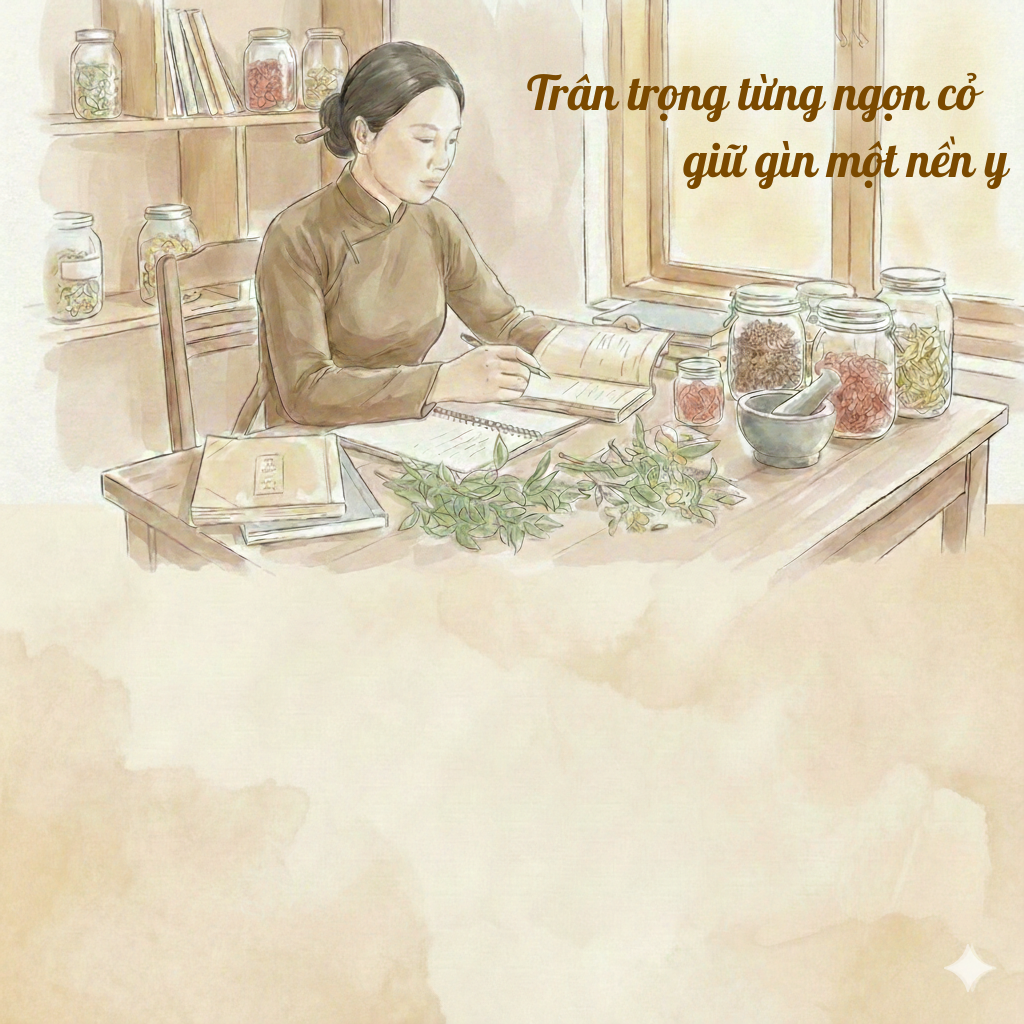
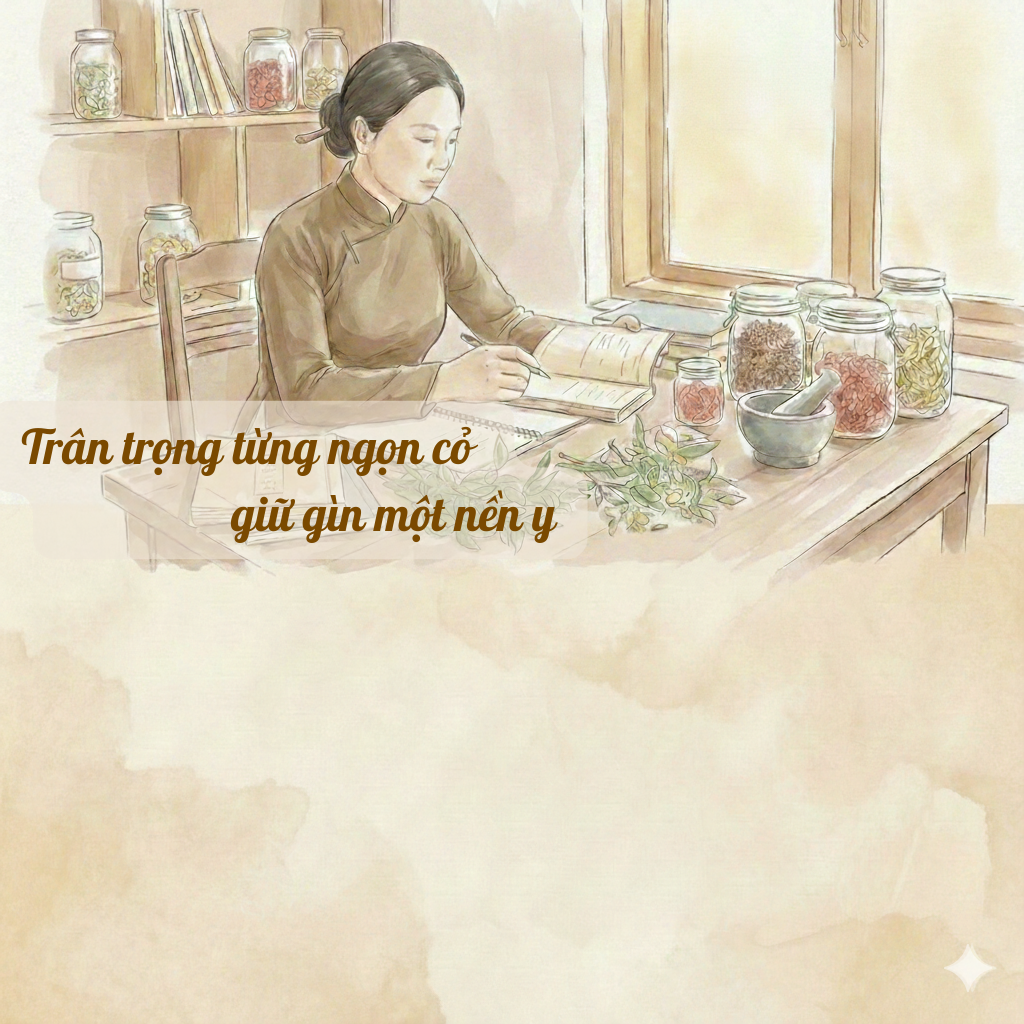
update

Changed region(s): [[0.0312, 0.375, 0.5938, 0.5625], [0.5, 0.0625, 1.0, 0.1875]]

diff --git a/app/page.tsx b/app/page.tsx
@@ -80,7 +80,7 @@ export default function Home() {
             </div>
 
             <div className="space-y-4 text-dark pb-12">
-              <h2 className="text-3xl font-playfair font-bold text-center mb-8">Xin Chào!</h2>
+              <h2 className="text-3xl font-playfair font-bold text-left mb-8">Xin Chào!</h2>
               
               <div className="space-y-3 font-semibold text-[15px] leading-relaxed text-black">
                 <p>
@@ -106,54 +106,6 @@ export default function Home() {
           </div>
         </div>
       </section>
-
-      {/* Blog/Services Section - Modern Zen Grid */}
-      {/* <section id="blog" className="py-24 px-6 bg-cream/10">
-        <div className="max-w-7xl mx-auto space-y-16">
-          <div className="text-center space-y-4">
-            <h2 className="text-3xl md:text-4xl font-playfair font-bold text-primary tracking-widest uppercase">
-              BÀI VIẾT & DƯỠNG SINH
-            </h2>
-            <div className="w-20 h-[2px] bg-accent mx-auto"></div>
-          </div>
-
-          <div className="grid grid-cols-1 md:grid-cols-3 gap-10">
-            {blogPosts.map((post) => (
-              <div 
-                key={post.id} 
-                className="bg-white rounded-2xl shadow-sm hover:shadow-2xl transition-all duration-500 overflow-hidden group border border-primary/5 flex flex-col h-full"
-              >
-                <div className="p-10 space-y-6 flex flex-col h-full">
-                  <div className="space-y-4 flex-grow">
-                    <span className="text-[10px] font-montserrat font-bold tracking-[0.2em] text-accent uppercase bg-accent/5 px-3 py-1 rounded-full">
-                      {post.category}
-                    </span>
-                    <h3 className="text-xl md:text-2xl font-playfair font-bold text-primary group-hover:text-accent transition-colors leading-tight">
-                      {post.title}
-                    </h3>
-                    <p className="text-primary/60 text-sm font-montserrat leading-relaxed line-clamp-3">
-                      {post.excerpt}
-                    </p>
-                  </div>
-                  
-                  <div className="pt-8 border-t border-primary/5 flex justify-between items-center mt-auto">
-                    <span className="text-[11px] font-montserrat text-primary/40 uppercase tracking-wider">
-                      {post.date}
-                    </span>
-                    <Link 
-                      href={`/blog/${post.slug}`} 
-                      className="text-[12px] font-montserrat font-bold text-primary hover:text-accent transition-colors flex items-center gap-2 group/link"
-                    >
-                      XEM THÊM 
-                      <span className="transition-transform group-hover/link:translate-x-1">→</span>
-                    </Link>
-                  </div>
-                </div>
-              </div>
-            ))}
-          </div>
-        </div>
-      </section> */}
 
       {/* Newsletter Section - Refactored Modern Zen Layout */}
       <section id="newsletter" className="bg-background py-32 px-6 overflow-hidden">

diff --git a/components/Header.tsx b/components/Header.tsx
@@ -8,7 +8,7 @@ export function Header() {
 
   const navLinks = [
     { href: "/blog", label: "Blog" },
-    { href: "/services", label: "Về chúng tôi" },
+    { href: "#footer", label: "Về chúng tôi" },
     { href: "/shop", label: "Khóa học" },
   ]
 
@@ -17,13 +17,11 @@ export function Header() {
       <div className="max-w-7xl mx-auto px-6 py-4 flex justify-between items-center">
         {/* Logo - Top Left Align */}
         <Link href="/" className="flex items-center gap-4 group">
-          <div className="relative w-12 h-12 md:w-16 md:h-16 overflow-hidden rounded-sm shadow-sm group-hover:shadow-md transition-shadow">
-            <img 
-              src="/logo.png" 
-              alt="Hải Lĩnh Y Quán Logo" 
-              className="w-full h-full object-cover"
-            />
-          </div>
+          <img 
+            src="/logo.png" 
+            alt="Hải Lĩnh Y Quán Logo" 
+            className="w-[8%] h-[8%] object-cover"
+          />
           <div className="flex flex-col">
             <span className="text-xl md:text-2xl font-playfair font-bold tracking-[0.1em] text-primary uppercase leading-tight">
               Hải Lĩnh

diff --git a/components/Footer.tsx b/components/Footer.tsx
@@ -17,10 +17,10 @@ export function Footer() {
                 />
               </div>
               <div>
-                <span className="block text-2xl md:text-3xl font-playfair font-bold tracking-[0.2em] text-accent uppercase">
+                <span className="block text-2xl md:text-3xl font-playfair font-bold tracking-[0.2em] text-primary-foreground uppercase">
                   Hải Lĩnh
                 </span>
-                <span className="block text-sm md:text-base font-montserrat tracking-[0.4em] text-accent/80 uppercase">
+                <span className="block text-sm md:text-base font-montserrat tracking-[0.4em] text-primary-foreground/70 uppercase">
                   Y Quán
                 </span>
               </div>
